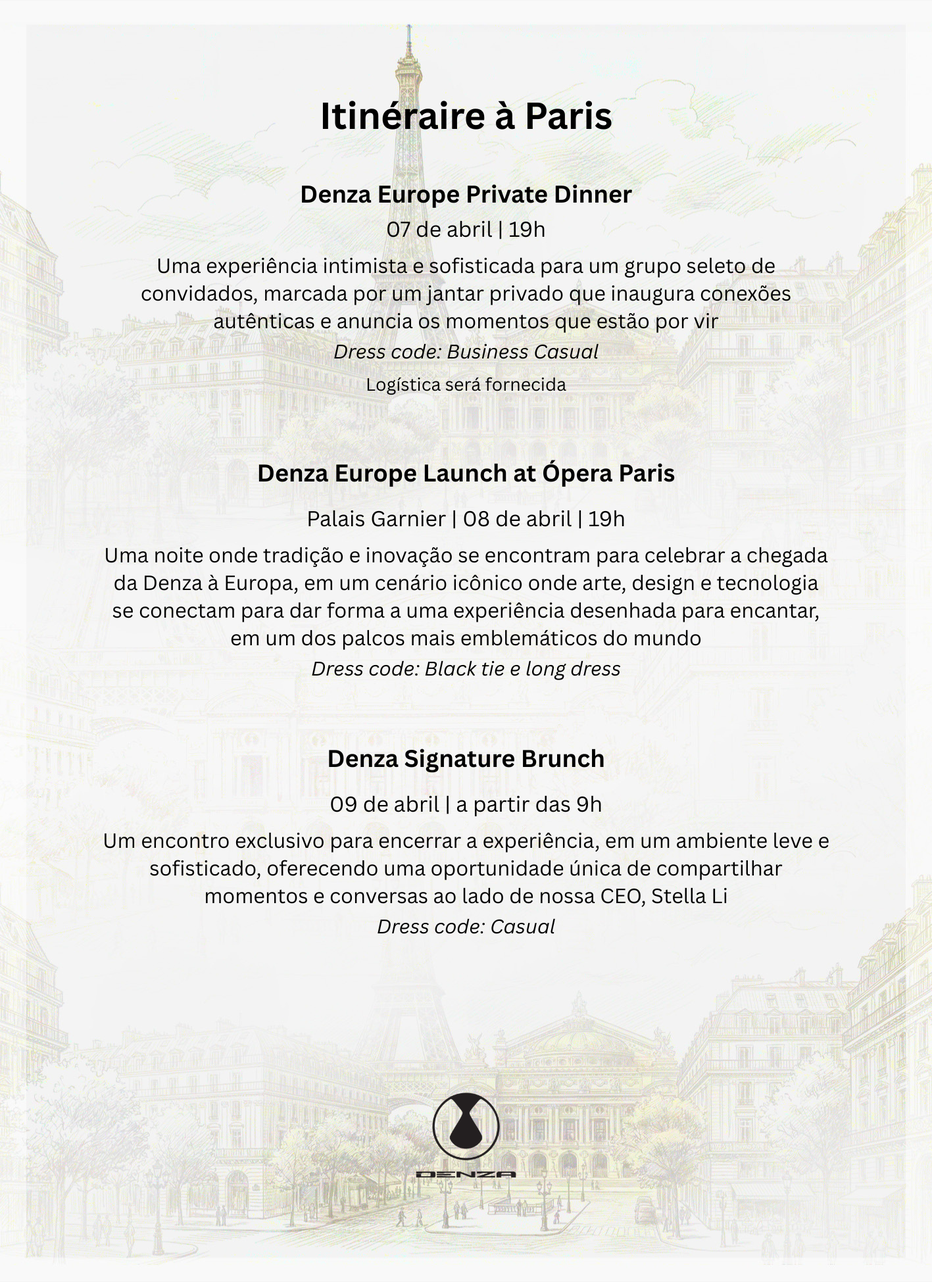
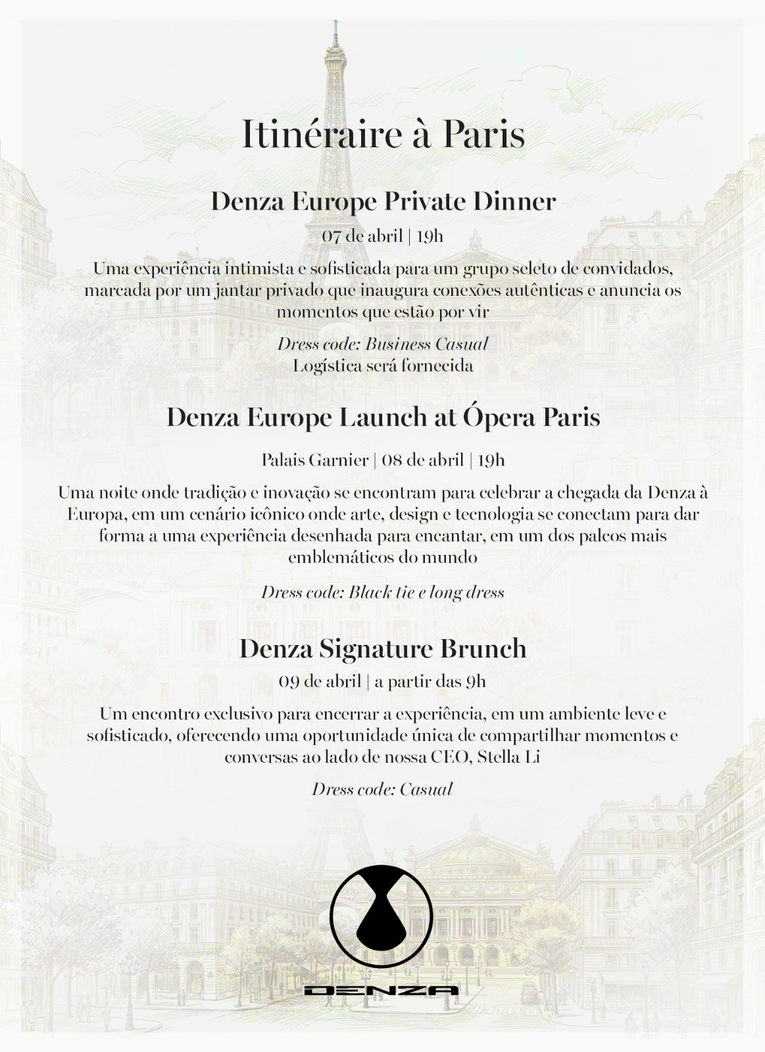
Mudanca de fonte

Changed region(s): [[0.0929, 0.0312, 0.9286, 0.75], [0.4024, 0.8125, 0.6191, 0.9688]]

diff --git a/index.html b/index.html
@@ -2,7 +2,7 @@
 <html lang="pt-BR">
 <head>
     <meta charset="UTF-8">
-    <meta name="viewport" content="width=device-width, initial-scale=0.5">
+    <meta name="viewport" content="width=device-width, initial-scale=1.0">
     <title>Itinéraire à Paris - Denza</title>
     <style>
         /* Reset básico */
